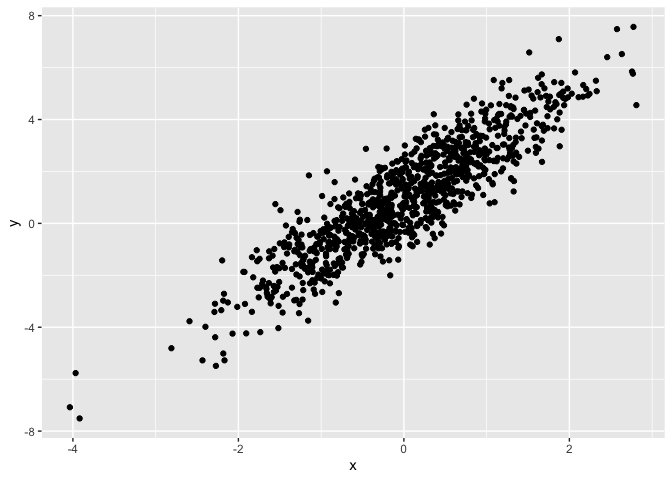
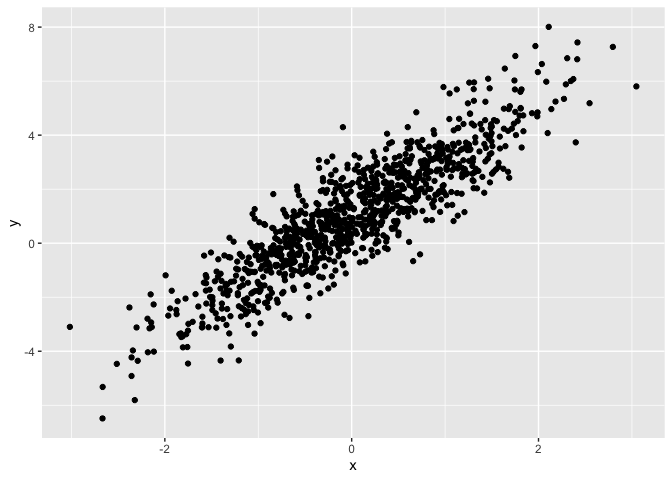
token updated try

diff --git a/template.md b/template.md
@@ -1,15 +1,6 @@
 Simple document
 ================
 
-    ## ── Attaching packages ─────────────────────────────────────── tidyverse 1.3.2 ──
-    ## ✔ ggplot2 3.3.6      ✔ purrr   0.3.4 
-    ## ✔ tibble  3.1.8      ✔ dplyr   1.0.10
-    ## ✔ tidyr   1.2.0      ✔ stringr 1.4.1 
-    ## ✔ readr   2.1.2      ✔ forcats 0.5.2 
-    ## ── Conflicts ────────────────────────────────────────── tidyverse_conflicts() ──
-    ## ✖ dplyr::filter() masks stats::filter()
-    ## ✖ dplyr::lag()    masks stats::lag()
-
 I’m an R Markdown document!
 
 # Section 1
@@ -25,7 +16,7 @@ length(samp)
 
 # Section 2
 
-I can take the mean of the sample, too! The mean is 0.35.
+I can take the mean of the sample, too! The mean is 0.12.
 
 # Section 3
 
@@ -75,5 +66,5 @@ ggplot(la_df, aes(x = abs_norm)) + geom_histogram()
 
 Here’s a list:
 
--   Item 1
--   Item 2
+- Item 1
+- Item 2
